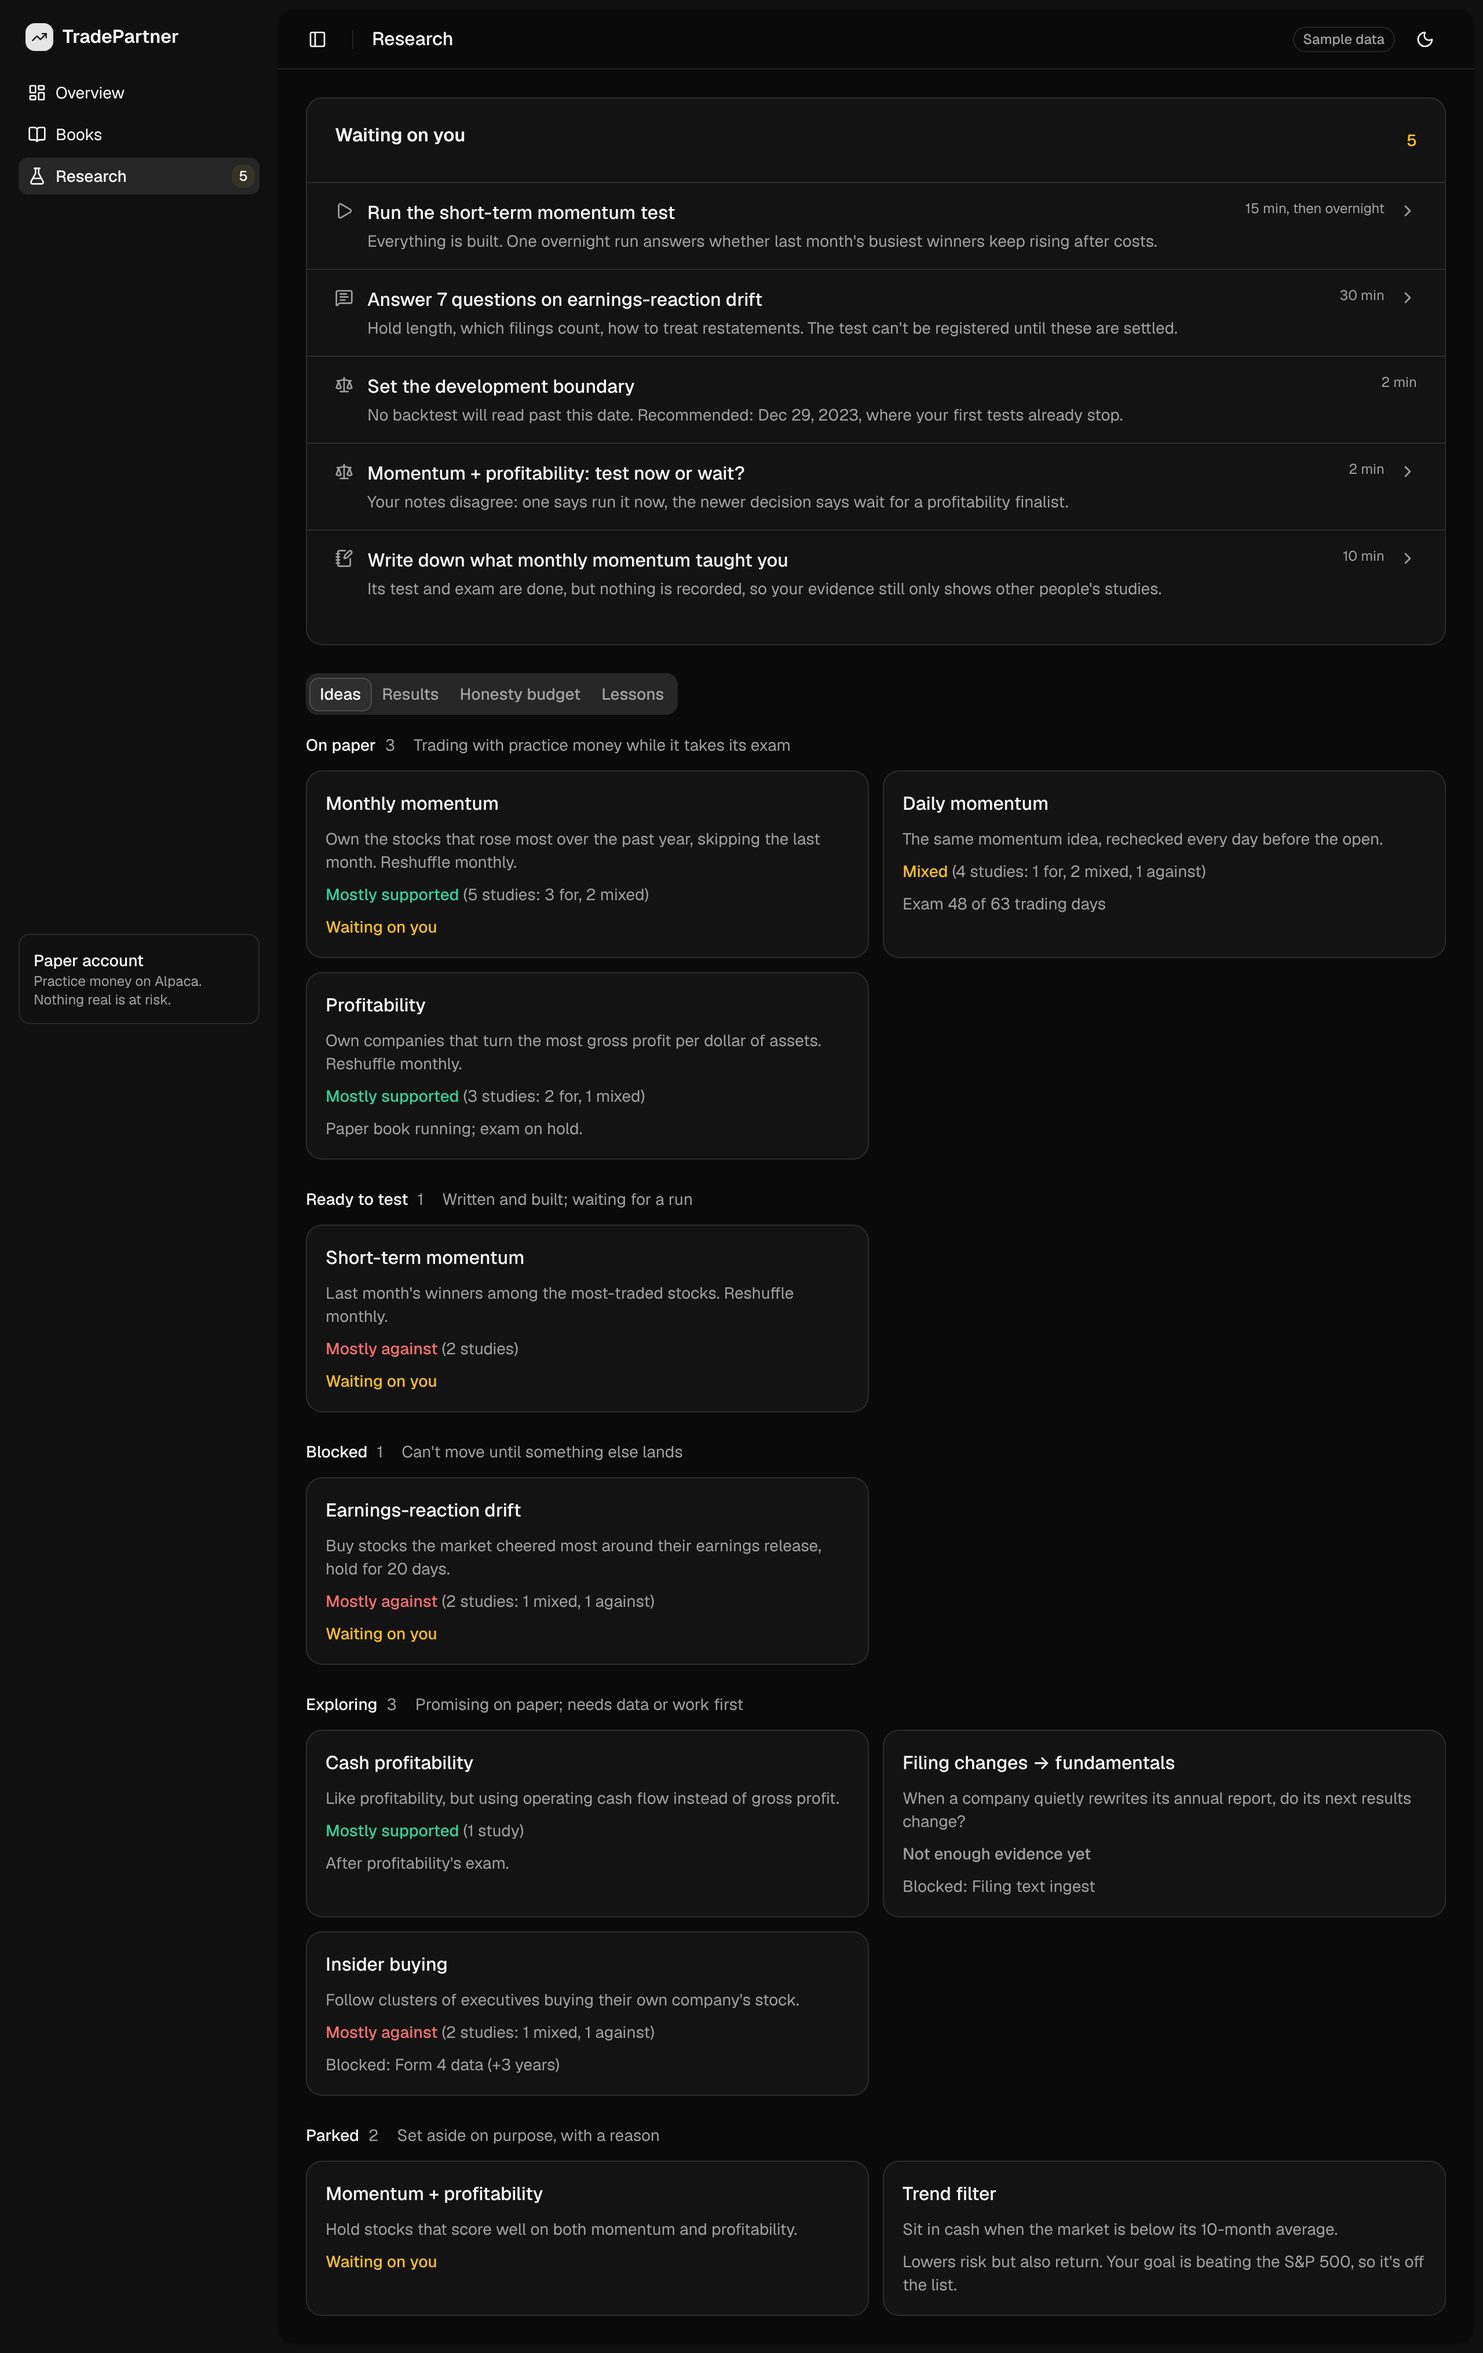
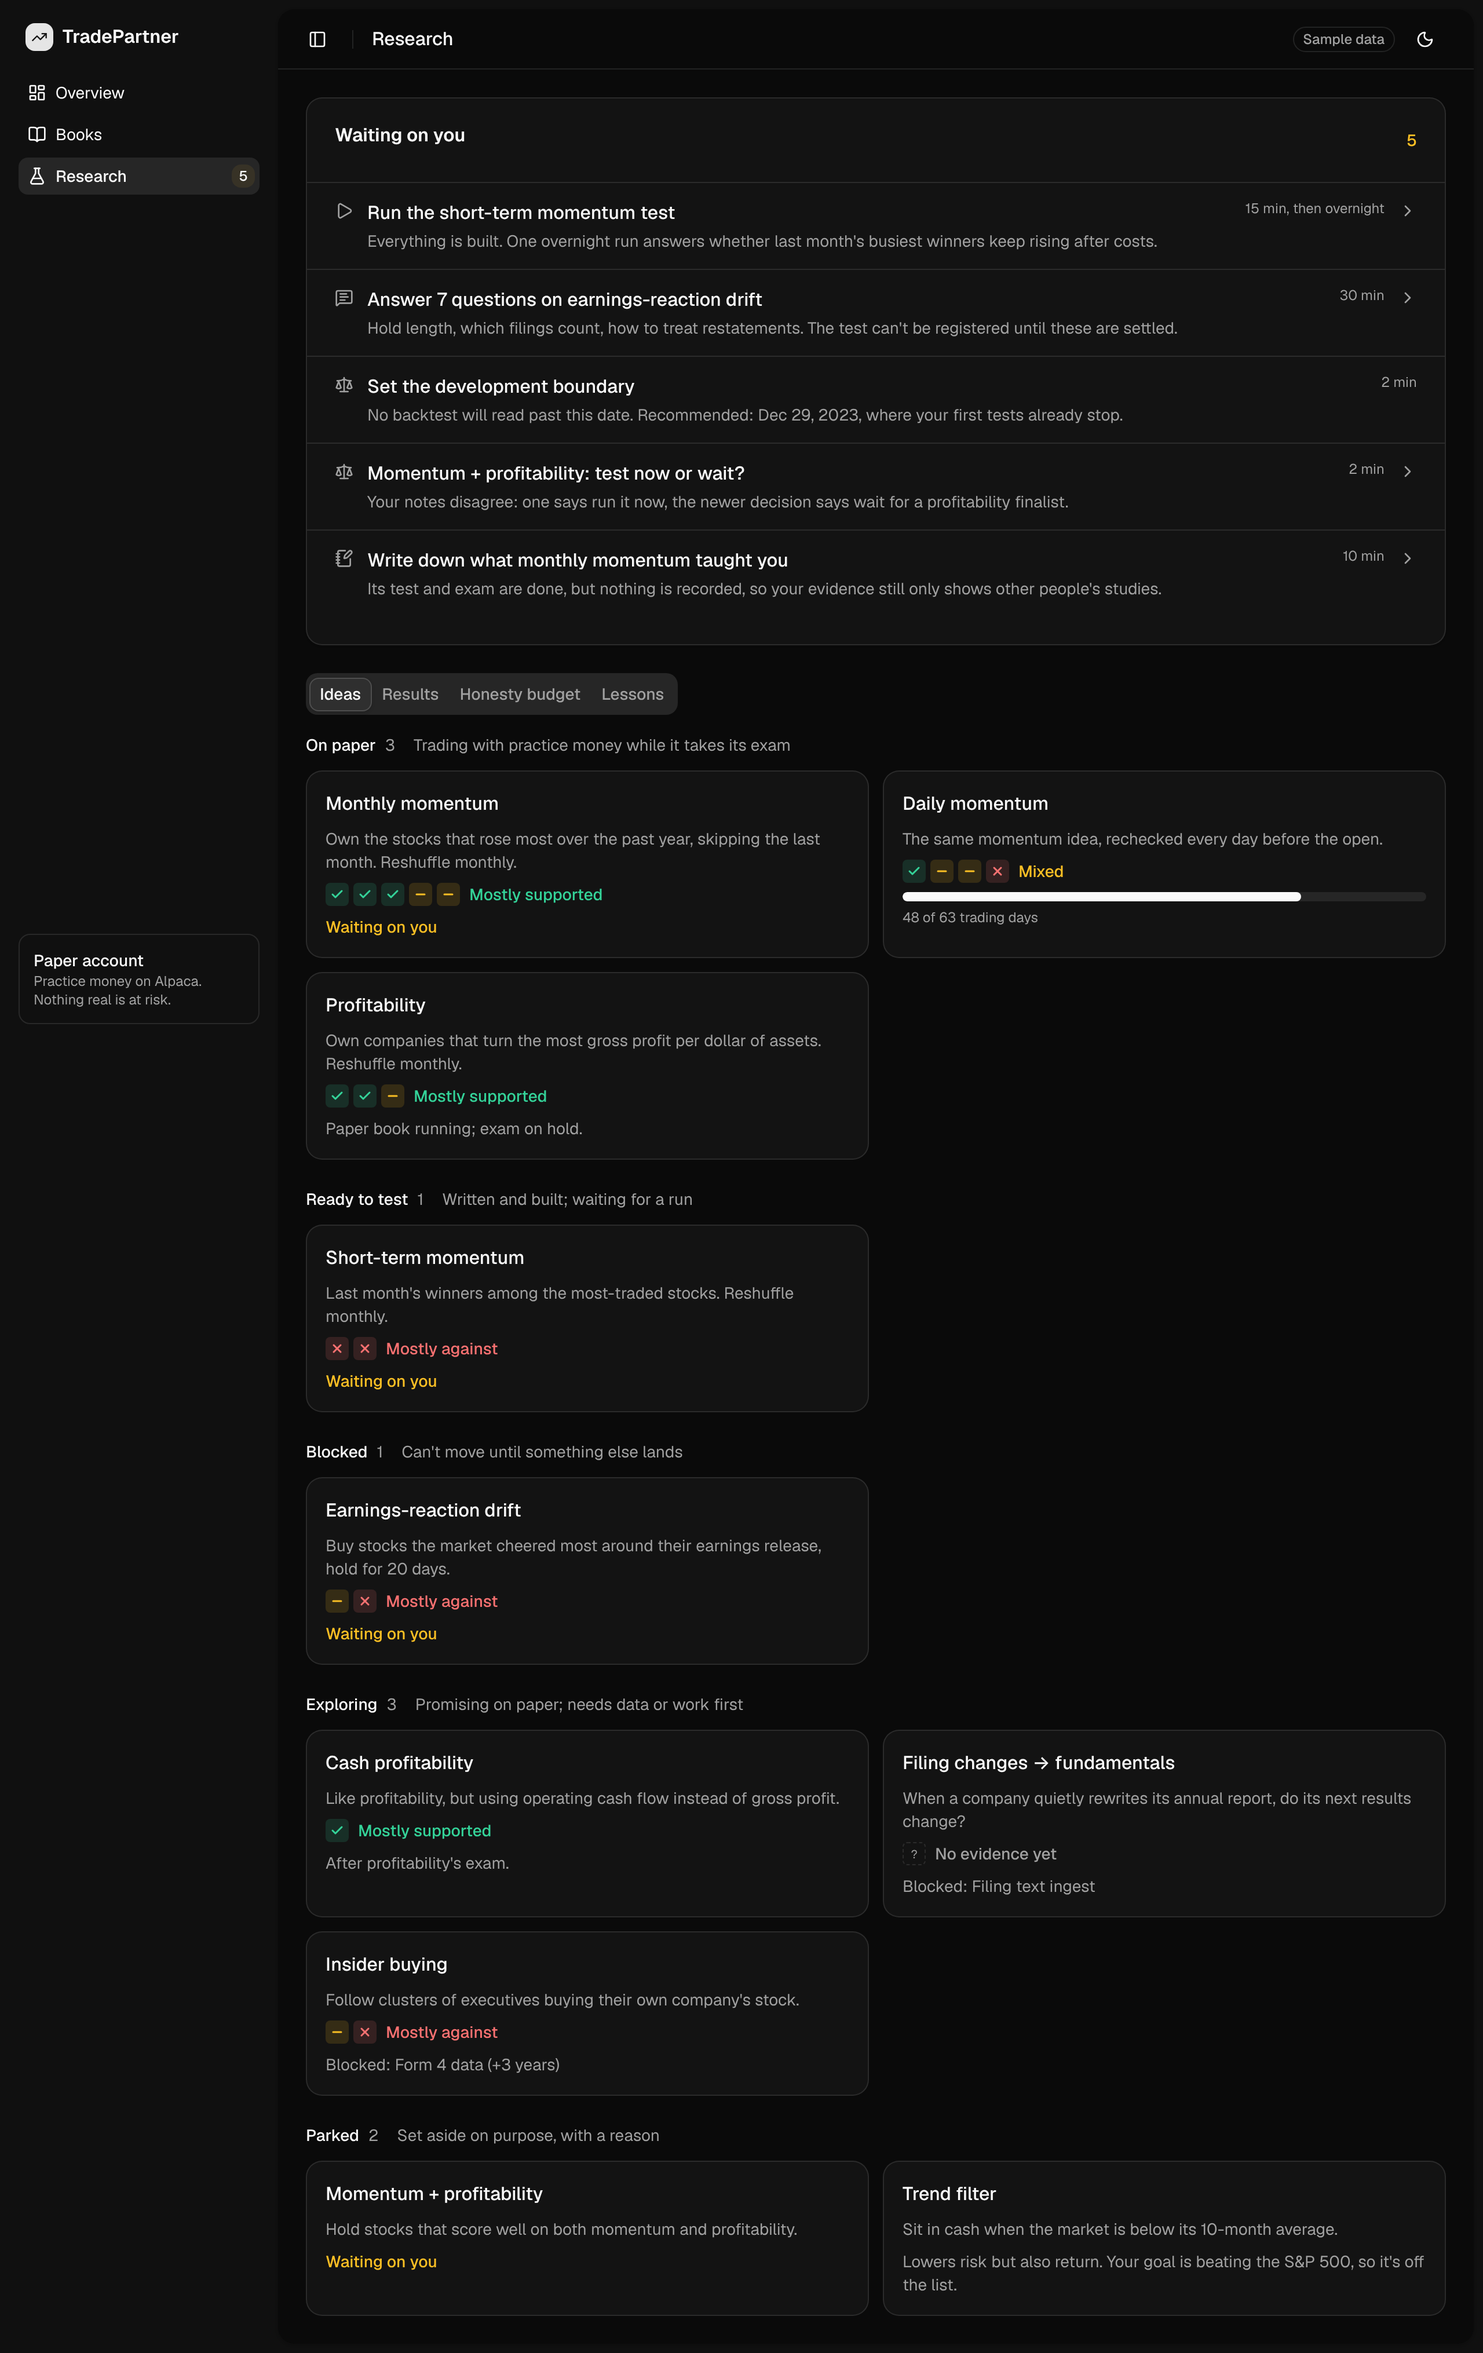
spike(ui): self-explaining visuals for evidence, luck, exams and slots
Evidence is one tile per study marked with a symbol; the luck check is a
scale with labelled zones and a marker; exams show one step per rebalance
(or a labelled track for many); promotions are countable slots.

Claude-Session: https://claude.ai/code/session_01QfXTiBii75XidXzH3WFxUi

diff --git a/web/src/screens/Research.tsx b/web/src/screens/Research.tsx
@@ -11,6 +11,7 @@ import { Separator } from "@/components/ui/separator";
 import { Sheet, SheetContent, SheetDescription, SheetHeader, SheetTitle } from "@/components/ui/sheet";
 import { Table, TableBody, TableCell, TableHead, TableHeader, TableRow } from "@/components/ui/table";
 import { Tabs, TabsContent, TabsList, TabsTrigger } from "@/components/ui/tabs";
+import { EvidenceTally, ExamSteps, LuckScale, Slots } from "@/components/Visuals";
 
 const STAGES: { key: Stage; label: string; hint: string }[] = [
   { key: "on_paper", label: "On paper", hint: "Trading with practice money while it takes its exam" },
@@ -133,7 +134,7 @@ export function Research({ data }: { data: AppData }) {
                         <TableCell className={cn("num text-right", i.result!.vs_spy >= 0 ? "text-gain" : "text-loss")}>
                           {pct1(i.result!.vs_spy)} pts{i.result!.sample?.includes("vs_spy") && <SampleMark />}
                         </TableCell>
-                        <TableCell><Luck v={i.result!.luck} sample={i.result!.sample?.includes("luck")} /></TableCell>
+                        <TableCell><LuckScale v={i.result!.luck} compact />{i.result!.sample?.includes("luck") && <SampleMark />}</TableCell>
                         <TableCell className="num hidden text-right sm:table-cell">{i.result!.tries}</TableCell>
                         <TableCell className="text-muted-foreground hidden pr-6 lg:table-cell"><ExamLine idea={i} /></TableCell>
                       </TableRow>
@@ -188,53 +189,21 @@ export function Research({ data }: { data: AppData }) {
   );
 }
 
-/** Evidence in words: a verdict, then the counts behind it. */
-function evidenceVerdict(e: NonNullable<Idea["evidence"]>) {
-  const known = e.for + e.mixed + e.against;
-  if (!known) return { text: "Not enough evidence yet", cls: "text-muted-foreground" };
-  if (e.for > e.against && e.for >= e.mixed) return { text: "Mostly supported", cls: "text-gain" };
-  if (e.against > e.for && e.against >= e.mixed) return { text: "Mostly against", cls: "text-loss" };
-  return { text: "Mixed", cls: "text-attention" };
-}
-
-function Evidence({ e }: { e: NonNullable<Idea["evidence"]> }) {
-  const v = evidenceVerdict(e);
-  const n = e.for + e.mixed + e.against;
-  // One kind of study: just the count. Several kinds: the split.
-  const parts = [e.for && `${e.for} for`, e.mixed && `${e.mixed} mixed`, e.against && `${e.against} against`].filter(Boolean);
-  const detail = !n ? "" : parts.length === 1 ? `${n} ${n === 1 ? "study" : "studies"}` : `${n} studies: ${parts.join(", ")}`;
-  return (
-    <p className="text-sm">
-      <span className={cn("font-medium", v.cls)}>{v.text}</span>
-      {detail && <span className="text-muted-foreground"> ({detail})</span>}
-    </p>
-  );
-}
-
 function IdeaCard({ idea, waiting, onOpen }: { idea: Idea; waiting: boolean; onOpen: () => void }) {
-  const exam = idea.exam?.kind === "paper" && idea.exam.of ? `Exam ${idea.exam.done} of ${idea.exam.of} ${idea.exam.unit}` : null;
+  const paperExam = idea.exam?.kind === "paper" && idea.exam.of ? idea.exam : null;
   return (
     <button onClick={onOpen} className="bg-card hover:bg-accent/40 focus-visible:ring-ring/50 flex flex-col gap-2 rounded-xl border p-4 text-left transition-colors outline-none focus-visible:ring-[3px]">
       <p className="font-medium">{idea.name}</p>
       <p className="text-muted-foreground line-clamp-2 text-sm">{idea.idea}</p>
-      {idea.evidence && <Evidence e={idea.evidence} />}
+      {idea.evidence && <EvidenceTally e={idea.evidence} />}
+      {paperExam && !waiting && <ExamSteps done={paperExam.done!} of={paperExam.of!} unit={paperExam.unit!} />}
       <p className="text-sm">
         {waiting ? <span className="text-attention font-medium">Waiting on you</span>
           : idea.blocked_by ? <span className="text-muted-foreground">Blocked: {idea.blocked_by[0]}{idea.blocked_by.length > 1 && ` and ${idea.blocked_by.length - 1} more`}</span>
           : idea.parked ? <span className="text-muted-foreground">{idea.parked}</span>
-          : <span className="text-muted-foreground num">{exam ?? idea.next}</span>}
+          : !paperExam && <span className="text-muted-foreground">{idea.next}</span>}
       </p>
     </button>
-  );
-}
-
-function Luck({ v, sample }: { v: number; sample?: boolean }) {
-  const label = v >= 0.95 ? "likely real" : v >= 0.5 ? "could be luck" : "probably luck";
-  return (
-    <span title="Chance the edge is real, after counting every version tried in this family (deflated Sharpe)">
-      <span className="num">{Math.round(v * 100)}%</span> <span className="text-muted-foreground">{label}</span>
-      {sample && <SampleMark />}
-    </span>
   );
 }
 
@@ -266,7 +235,7 @@ function FamilyCard({ family: f }: { family: Family }) {
         <Separator />
         <div className="flex items-baseline justify-between">
           <span className="text-muted-foreground">Promotions to paper</span>
-          <span className="num font-medium">{f.promotions[0]} of {f.promotions[1]} used</span>
+          <Slots used={f.promotions[0]} of={f.promotions[1]} label="promotions" />
         </div>
         {f.luck_bar_note && <p className="text-muted-foreground text-xs">{f.luck_bar_note}</p>}
       </CardContent>
@@ -324,7 +293,7 @@ function IdeaSheet({ idea, data, onClose }: { idea: Idea | null; data: AppData; 
 
               {idea.evidence && (
                 <Block title="Published evidence" icon={CircleHelp}>
-                  <Evidence e={idea.evidence} />
+                  <EvidenceTally e={idea.evidence} />
                   <p className="text-muted-foreground mt-1">{idea.evidence.note}</p>
                 </Block>
               )}
@@ -340,12 +309,15 @@ function IdeaSheet({ idea, data, onClose }: { idea: Idea | null; data: AppData; 
                 {idea.result ? (
                   <div className="grid grid-cols-2 gap-3">
                     <Stat label="vs S&P 500 a year" value={`${pct1(idea.result.vs_spy)} pts`} cls={idea.result.vs_spy >= 0 ? "text-gain" : "text-loss"} sample={idea.result.sample?.includes("vs_spy")} />
-                    <Stat label="Luck check" value={`${Math.round(idea.result.luck * 100)}%`} sample={idea.result.sample?.includes("luck")} />
                     <Stat label="Versions counted" value={String(idea.result.tries)} />
                     <Stat label="Lost to costs a year" value={`${(idea.result.cost_drag * 100).toFixed(1)}%`} sample={idea.result.sample?.includes("cost_drag")} />
+                    <div className="col-span-2 rounded-lg border p-3">
+                      <p className="text-muted-foreground mb-2 text-xs">Luck check{idea.result.sample?.includes("luck") && <SampleMark />}</p>
+                      <LuckScale v={idea.result.luck} />
+                    </div>
                     <p className="text-muted-foreground col-span-2 text-xs">
                       {idea.result.window}, after costs. The luck check is the chance the edge is real once every version tried in the
-                      {" "}{idea.family} family is counted; above 95% is strong, under 50% is more likely luck than skill.
+                      {" "}{idea.family} family is counted.
                     </p>
                   </div>
                 ) : (
@@ -357,7 +329,8 @@ function IdeaSheet({ idea, data, onClose }: { idea: Idea | null; data: AppData; 
                 <Block title="The exam" icon={Lock}>
                   {idea.exam.kind === "paper" ? (
                     <div className="flex flex-col gap-1">
-                      <p>{idea.exam.label}: <span className="num">{idea.exam.done} of {idea.exam.of}</span> {idea.exam.unit} done</p>
+                      <p>{idea.exam.label}</p>
+                      <ExamSteps done={idea.exam.done!} of={idea.exam.of!} unit={idea.exam.unit!} />
                       <p className="text-muted-foreground text-xs">The strategy trades on paper with data that didn't exist when it was designed.</p>
                     </div>
                   ) : (

diff --git a/web/src/components/Visuals.tsx b/web/src/components/Visuals.tsx
@@ -1,0 +1,121 @@
+import { Check, Minus, X } from "lucide-react";
+import type { Idea } from "@/lib/types";
+import { cn } from "@/lib/utils";
+
+/**
+ * Small graphics that explain themselves: each mark carries its own symbol,
+ * so nothing needs a legend and nothing relies on colour alone.
+ */
+
+type Ev = NonNullable<Idea["evidence"]>;
+
+const KIND = {
+  for: { icon: Check, cls: "bg-gain/15 text-gain", label: "supports it" },
+  mixed: { icon: Minus, cls: "bg-attention/15 text-attention", label: "mixed" },
+  against: { icon: X, cls: "bg-loss/15 text-loss", label: "against it" },
+} as const;
+
+export function evidenceVerdict(e: Ev) {
+  const known = e.for + e.mixed + e.against;
+  if (!known) return { text: "No evidence yet", cls: "text-muted-foreground" };
+  if (e.for > e.against && e.for >= e.mixed) return { text: "Mostly supported", cls: "text-gain" };
+  if (e.against > e.for && e.against >= e.mixed) return { text: "Mostly against", cls: "text-loss" };
+  return { text: "Mixed", cls: "text-attention" };
+}
+
+/** One tile per published study: ✓ supports, – mixed, ✕ against. */
+export function EvidenceTally({ e, showVerdict = true }: { e: Ev; showVerdict?: boolean }) {
+  const tiles = [
+    ...Array.from({ length: e.for }, () => "for" as const),
+    ...Array.from({ length: e.mixed }, () => "mixed" as const),
+    ...Array.from({ length: e.against }, () => "against" as const),
+  ];
+  const v = evidenceVerdict(e);
+  const summary = `${v.text}: ${e.for} supporting, ${e.mixed} mixed, ${e.against} against`;
+  return (
+    <div className="flex items-center gap-2" role="img" aria-label={summary} title={summary}>
+      {tiles.length ? (
+        <span className="flex gap-1">
+          {tiles.map((k, i) => {
+            const { icon: Icon, cls } = KIND[k];
+            return (
+              <span key={i} className={cn("grid size-5 place-items-center rounded", cls)}>
+                <Icon className="size-3" strokeWidth={3} />
+              </span>
+            );
+          })}
+        </span>
+      ) : (
+        <span className="text-muted-foreground grid size-5 place-items-center rounded border border-dashed text-[10px]">?</span>
+      )}
+      {showVerdict && <span className={cn("text-sm font-medium", v.cls)}>{v.text}</span>}
+    </div>
+  );
+}
+
+/**
+ * The luck check on a labelled scale: under 50% probably luck, 50–95% could
+ * be luck, above 95% likely real. The marker shows where the result sits.
+ */
+export function LuckScale({ v, compact = false }: { v: number; compact?: boolean }) {
+  const pctV = Math.round(v * 100);
+  const zone = v >= 0.95 ? "likely real" : v >= 0.5 ? "could be luck" : "probably luck";
+  return (
+    <div className={cn("flex flex-col gap-1.5", compact ? "w-40" : "w-full")} role="img" aria-label={`Luck check ${pctV}%, ${zone}`}>
+      <div className="flex items-baseline justify-between text-sm">
+        <span className="num font-medium">{pctV}%</span>
+        <span className="text-muted-foreground text-xs">{zone}</span>
+      </div>
+      <div className="relative h-2">
+        <div className="absolute inset-0 flex gap-0.5 overflow-hidden rounded-full">
+          <span className="bg-loss/25 h-full" style={{ width: "50%" }} />
+          <span className="bg-attention/25 h-full" style={{ width: "45%" }} />
+          <span className="bg-gain/25 h-full" style={{ width: "5%" }} />
+        </div>
+        <span
+          className="bg-foreground ring-background absolute top-1/2 size-3 -translate-x-1/2 -translate-y-1/2 rounded-full ring-2"
+          style={{ left: `${Math.min(98, Math.max(2, pctV))}%` }}
+        />
+      </div>
+      {!compact && (
+        <div className="text-muted-foreground relative h-4 text-[11px]">
+          <span className="absolute left-0">luck</span>
+          <span className="absolute left-1/2 -translate-x-1/2">50%</span>
+          <span className="absolute right-0">95%+ real</span>
+        </div>
+      )}
+    </div>
+  );
+}
+
+/** Exam progress: one step per rebalance when there are few, a labelled track when there are many. */
+export function ExamSteps({ done, of, unit }: { done: number; of: number; unit: string }) {
+  const label = `${done} of ${of} ${unit}`;
+  return (
+    <div className="flex flex-col gap-1.5" role="img" aria-label={`Exam: ${label}`}>
+      {of <= 13 ? (
+        <div className="flex gap-1">
+          {Array.from({ length: of }, (_, i) => (
+            <span key={i} className={cn("h-2 flex-1 rounded-sm", i < done ? "bg-foreground" : "bg-muted")} />
+          ))}
+        </div>
+      ) : (
+        <div className="bg-muted h-2 overflow-hidden rounded-full">
+          <div className="bg-foreground h-full rounded-full" style={{ width: `${(done / of) * 100}%` }} />
+        </div>
+      )}
+      <p className="text-muted-foreground num text-xs">{label}</p>
+    </div>
+  );
+}
+
+/** Countable slots: filled = used. */
+export function Slots({ used, of, label }: { used: number; of: number; label: string }) {
+  return (
+    <span className="flex items-center gap-1" role="img" aria-label={`${used} of ${of} ${label} used`}>
+      {Array.from({ length: of }, (_, i) => (
+        <span key={i} className={cn("size-3 rounded-sm border", i < used ? "bg-foreground border-foreground" : "border-muted-foreground/50")} />
+      ))}
+    </span>
+  );
+}
